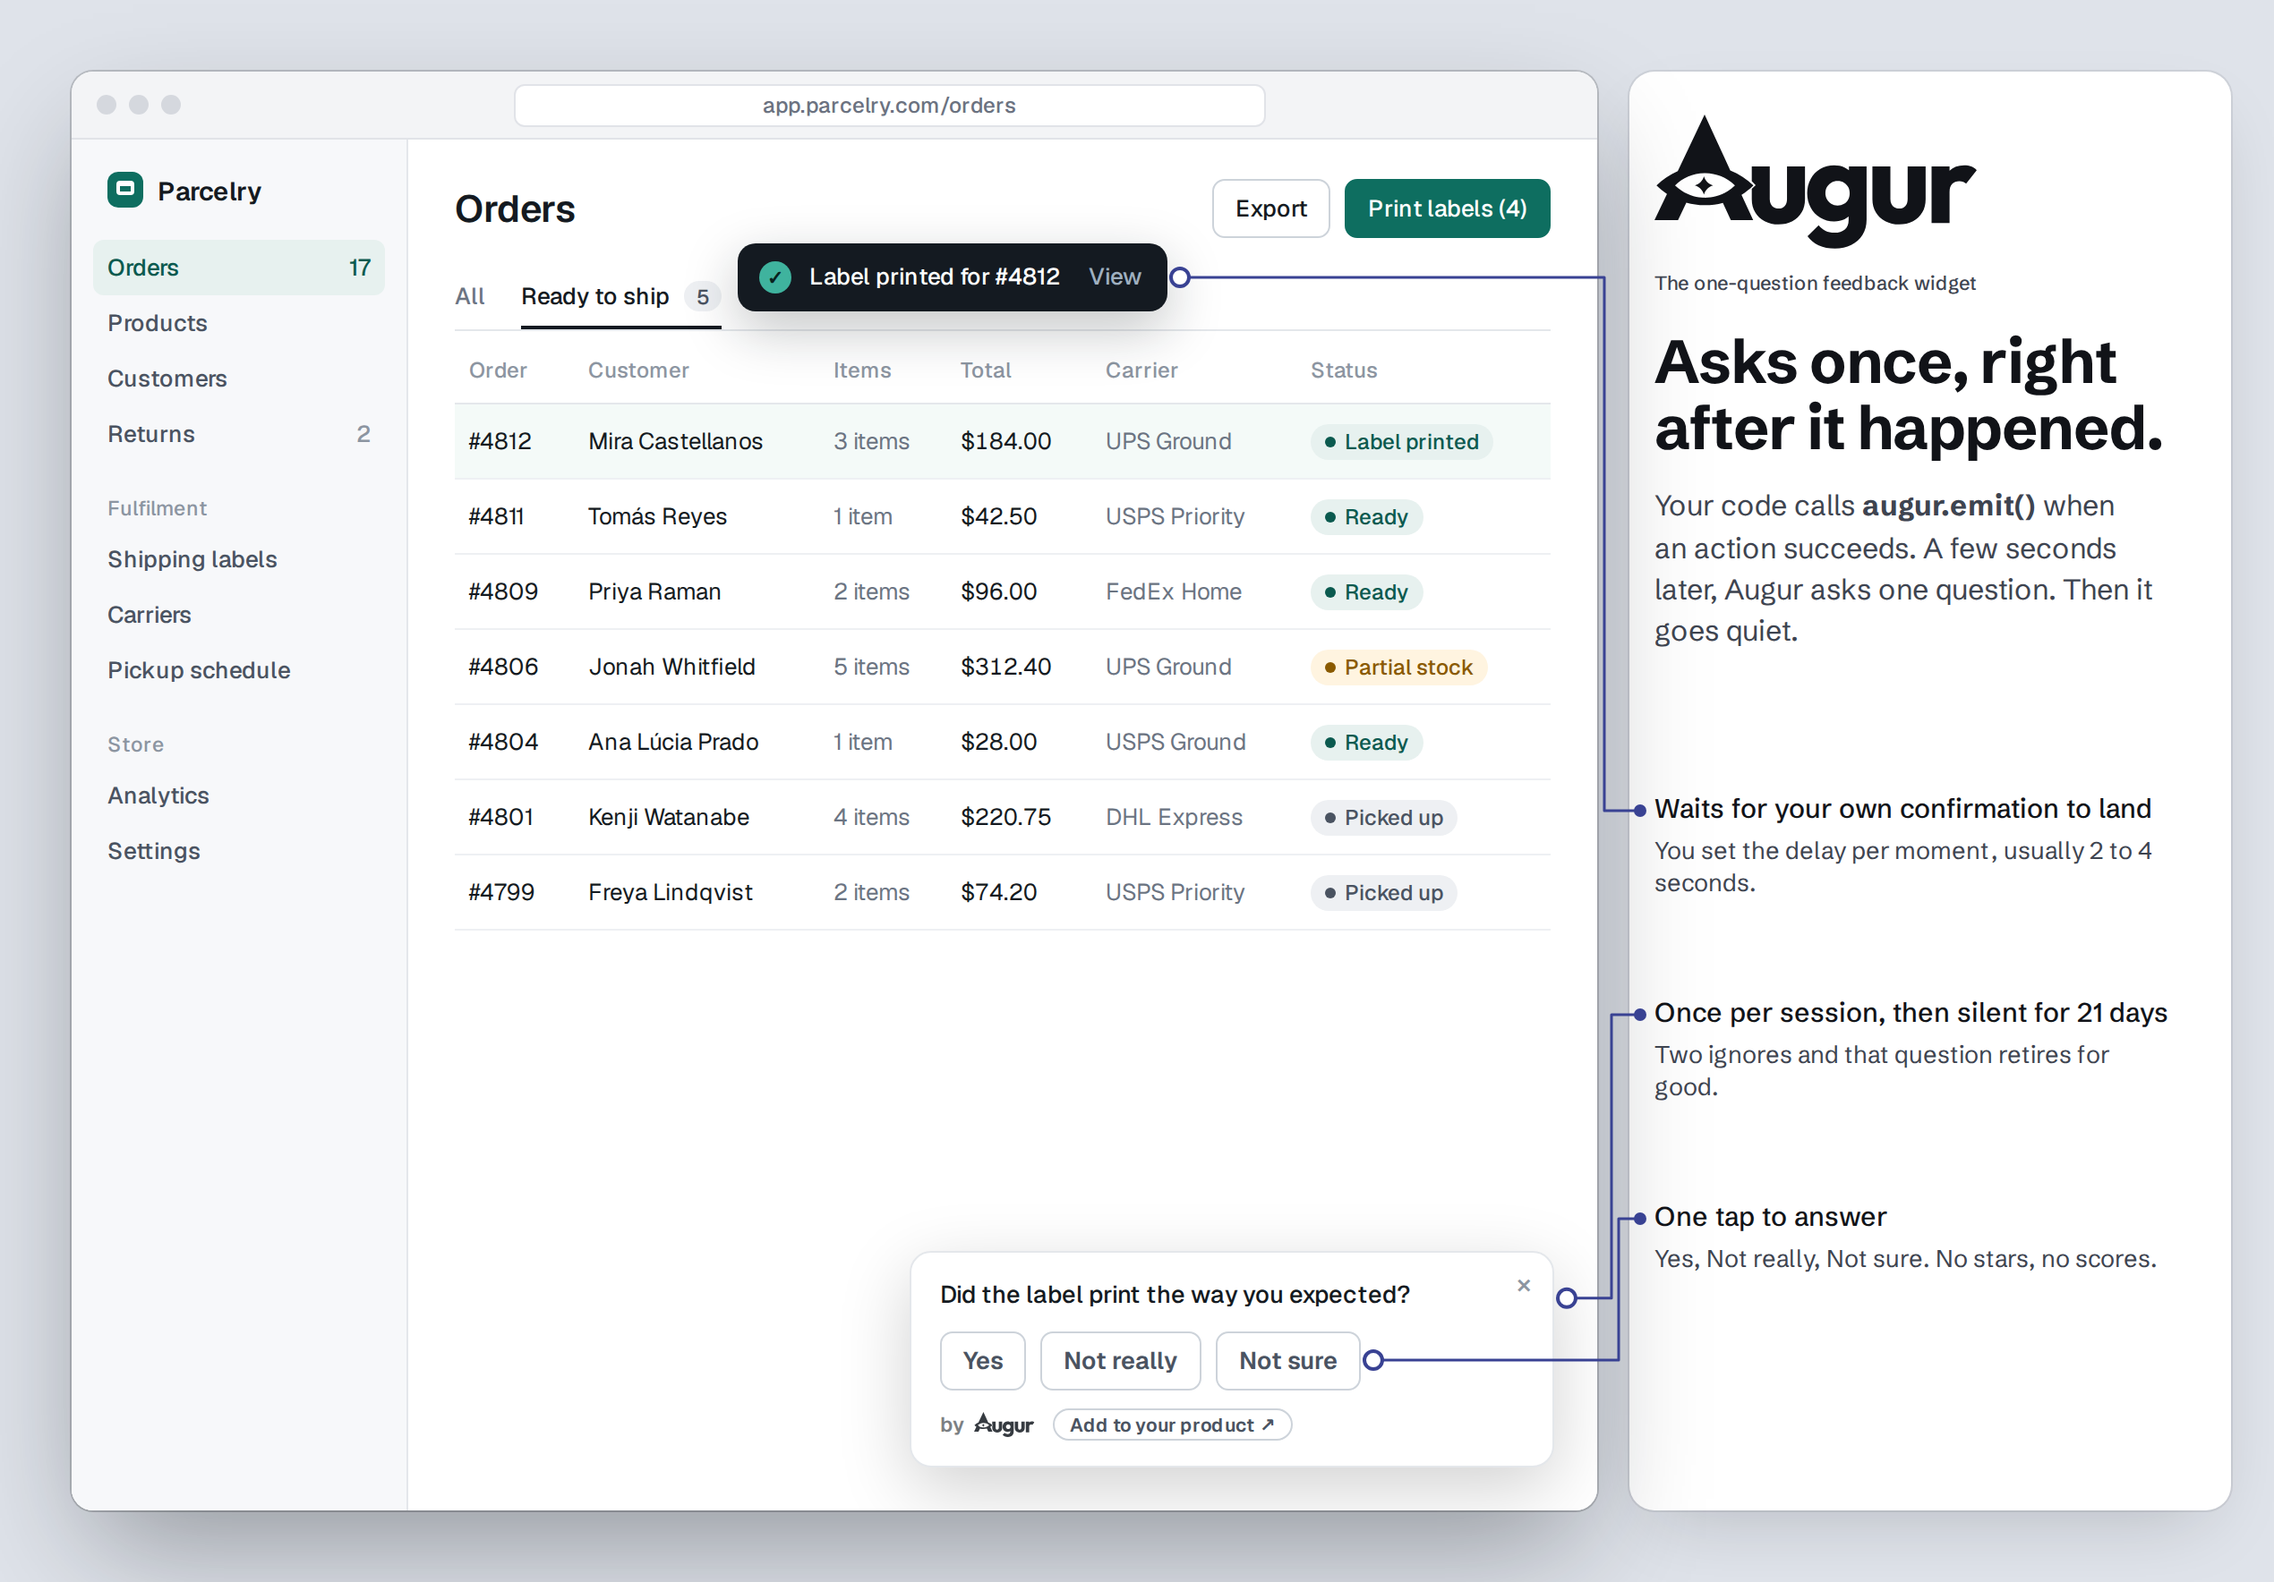
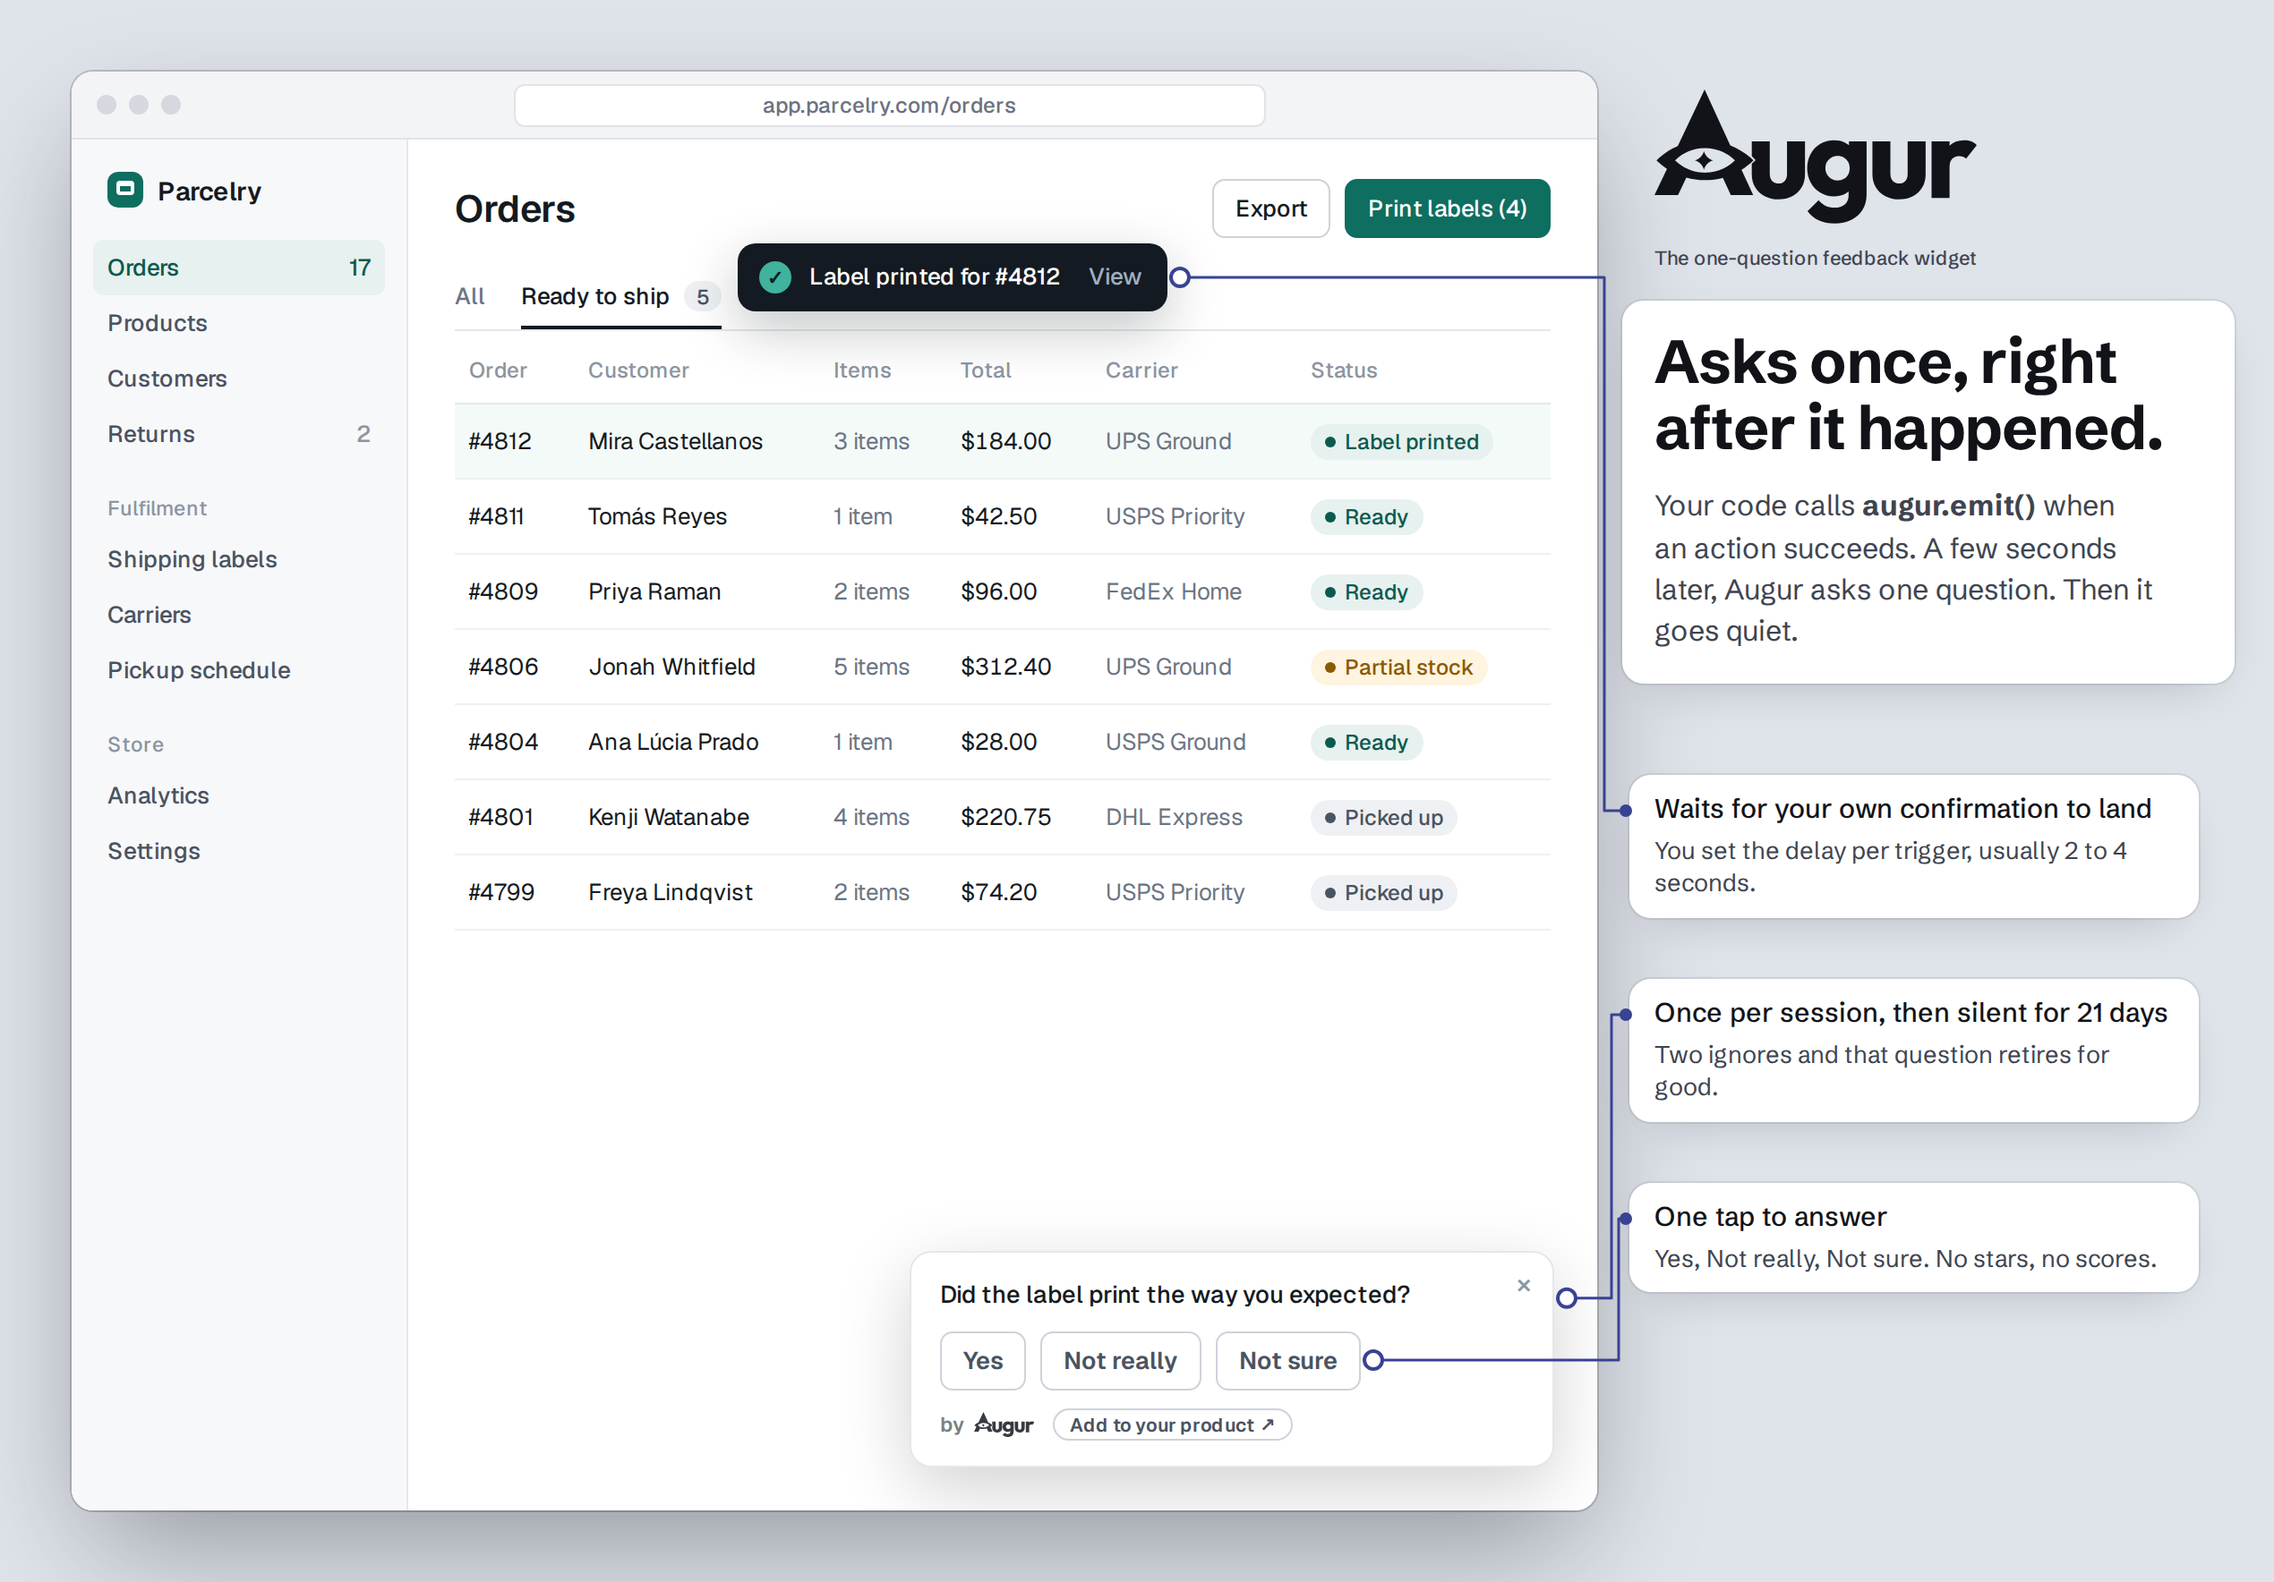
Gallery: a white card per text block instead of one full-height strip
Each annotation (the headline block and every note) gets its own white
card; negative margins keep the text where it was. The tall panel behind
the whole column is gone. Connector dots sit on each card's edge, level
with its first line. "Delay per moment" now reads "per trigger". Image 3
spacing nudged so no two cards touch. PNGs re-exported at 2x.

Claude-Session: https://claude.ai/code/session_0182RV45qnB2tjMoAwA4TVXF

Changed region(s): [[0.7154, 0.4044, 0.9953, 0.9644], [0.7154, 0.0311, 0.9953, 0.2178]]

diff --git a/.github/assets/gallery/gallery.html b/.github/assets/gallery/gallery.html
@@ -12,22 +12,23 @@
 * { box-sizing: border-box; }
 body { margin: 0; background: #C9CDD5; padding: 40px 0; display: grid; gap: 40px; justify-content: center; font-family: "Schibsted Grotesk", system-ui, sans-serif; }
 .frame { position: relative; width: 1270px; height: calc(760px + var(--top));  background: var(--mist); overflow: hidden; color: var(--ink); }
-/* annotation panel: a white card behind the side column so the notes read clearly */
-.frame::before { content: ""; position: absolute; left: 910px; top: 40px; right: 24px; bottom: 40px; background: #fff; border-radius: 14px;
-  box-shadow: 0 0 0 1px rgba(17,19,24,.08), 0 16px 40px -16px rgba(17,19,24,.22); }
 /* frame 3 carries more notes: lift them a little so the last one stays inside the panel */
-#frame-3 .note, #frame-3 .code, #frame-3 .inset { translate: 0 calc(var(--top) - 24px); }
+#frame-3 .note, #frame-3 .code, #frame-3 .inset { translate: 0 calc(var(--top) - 12px); }
 .frame .lines { position: absolute; inset: 0; pointer-events: none; z-index: 5; }
 
 .side { position: absolute; left: 924px; top: 60px; width: 306px; translate: 0 var(--top); }
+/* annotation cards: a white card around each text block; negative margins keep the text in place */
+.side, .note { background: #fff; border-radius: 12px; box-shadow: 0 0 0 1px rgba(17,19,24,.08), 0 10px 28px -14px rgba(17,19,24,.25); }
 .side h2 { font-size: 34px; line-height: 1.08; letter-spacing: -0.02em; font-weight: 700; margin: 0 0 14px; text-wrap: balance; }
 .side .sub { font-size: 16px; line-height: 1.45; color: var(--ink-2); margin: 0; text-wrap: pretty; }
-.brand { position: absolute; left: 924px; top: 64px; width: 180px; display: flex; flex-direction: column; gap: 4px; color: var(--ink); }
+.brand { position: absolute; left: 924px; top: 50px; width: 180px; display: flex; flex-direction: column; gap: 4px; color: var(--ink); }
 .brand .wm { width: 100%; height: auto; display: block; }
 .brand .by { display: block; white-space: nowrap; line-height: 1.1; font-weight: 500; }
 .brand .by { color: var(--ink-2); }
 
 .note { position: absolute; left: 924px; width: 290px; translate: 0 var(--top); font-size: 15px; line-height: 1.38; font-weight: 500; }
+.side { padding: 16px 18px 18px; margin: -16px -18px; width: 342px; }
+.note { padding: 9px 14px 10px; margin: -9px -14px; width: 318px; }
 .note small { display: block; font-size: 13.5px; color: var(--ink-2); font-weight: 400; margin-top: 3px; }
 .note .n { display: inline-grid; place-items: center; width: 22px; height: 22px; border-radius: 50%; background: var(--pin); color: #fff; font-size: 12px; font-weight: 700; margin-right: 8px; vertical-align: 1px; }
 
@@ -201,7 +202,7 @@ body { margin: 0; background: #C9CDD5; padding: 40px 0; display: grid; gap: 40px
 
   <div class="side"><h2>Asks once, right after it happened.</h2>
     <p class="sub">Your code calls <b>augur.emit()</b> when an action succeeds. A few seconds later, Augur asks one question. Then it goes quiet.</p></div>
-  <div class="note" style="top:318px" data-to="#t1-toast" data-at="right">Waits for your own confirmation to land<small>You set the delay per moment, usually 2 to 4 seconds.</small></div>
+  <div class="note" style="top:318px" data-to="#t1-toast" data-at="right">Waits for your own confirmation to land<small>You set the delay per trigger, usually 2 to 4 seconds.</small></div>
   <div class="note" style="top:432px" data-to="#t1-augur" data-at="right" data-y=".22">Once per session, then silent for 21 days<small>Two ignores and that question retires for good.</small></div>
   <div class="note" style="top:546px" data-to="#t1-last" data-at="right">One tap to answer<small>Yes, Not really, Not sure. No stars, no scores.</small></div>
   <div class="brand"><svg class="wm" width="57.68" height="24" viewBox="0 0 304.89 126.88" fill="currentColor" role="img" aria-label="Augur"><path d="m125.38,79.96c0,2.8-.71,5-2.15,6.62-1.43,1.62-3.4,2.43-5.91,2.43-1.69,0-3.16-.37-4.41-1.1-1.25-.74-2.21-1.79-2.87-3.15-.66-1.36-.99-2.96-.99-4.8v-30.8h-17.01v13.96l3.66,3.71-3.66,3.51v9.84c0,4.63,1.07,8.74,3.21,12.31,2.13,3.57,5.13,6.38,8.99,8.44,3.87,2.06,8.23,3.09,13.08,3.09s9.39-1.01,13.14-3.03c3.76-2.02,6.68-4.82,8.78-8.39,2.1-3.57,3.15-7.71,3.15-12.42v-31.02h-17.01v30.8Z"/><path d="m184,52.72c-1.23-1.03-2.61-1.9-4.14-2.62-2.9-1.37-6.2-2.05-9.88-2.05-4.85,0-9.21,1.16-13.08,3.48-3.86,2.32-6.9,5.46-9.11,9.44-2.2,3.97-3.31,8.5-3.31,13.58s1.11,9.42,3.31,13.47c2.21,4.04,5.23,7.25,9.06,9.6,3.82,2.36,8.2,3.53,13.13,3.53,3.68,0,6.98-.69,9.88-2.1,1.4-.67,2.67-1.46,3.81-2.38v3.27c0,3.83-1.19,6.77-3.58,8.83-2.4,2.06-5.69,3.09-9.88,3.09-3.24,0-6.06-.59-8.45-1.76-2.39-1.18-4.55-2.91-6.46-5.19l-10.49,10.37c2.58,3.68,6.09,6.53,10.55,8.56,4.45,2.02,9.58,3.04,15.4,3.04s10.87-1.13,15.4-3.37c4.52-2.25,8.07-5.43,10.65-9.55s3.86-8.94,3.86-14.46v-50.34h-16.67v3.56Zm-.71,27.73c-.92,1.73-2.25,3.11-3.98,4.14-1.73,1.04-3.77,1.55-6.12,1.55s-4.27-.51-5.97-1.55c-1.69-1.03-3.03-2.44-4.03-4.25-.99-1.8-1.49-3.73-1.49-5.79s.48-4.09,1.44-5.85c.96-1.77,2.32-3.17,4.08-4.2,1.77-1.03,3.79-1.54,6.08-1.54s4.37.51,6.07,1.54c1.69,1.03,3,2.43,3.92,4.2.92,1.76,1.38,3.68,1.38,5.74,0,2.28-.46,4.28-1.38,6.01Z"/><path d="m239.53,79.96c0,2.8-.71,5-2.15,6.62-1.43,1.62-3.4,2.43-5.91,2.43-1.69,0-3.16-.37-4.41-1.1-1.25-.74-2.21-1.79-2.87-3.15-.66-1.36-1-2.96-1-4.8v-30.8h-17v31.02c0,4.63,1.07,8.74,3.2,12.31,2.14,3.57,5.14,6.38,9,8.44,3.87,2.06,8.23,3.09,13.08,3.09s9.39-1.01,13.14-3.03,6.68-4.82,8.78-8.39,3.14-7.71,3.14-12.42v-31.02h-17v30.8Z"/><path d="m299.75,49.21c-1.95-.77-4.21-1.16-6.78-1.16-5.82,0-10.4,1.73-13.75,5.19l-.05.05v-4.13h-17.01v53.65h17.01v-29.37c0-3.46.82-6.05,2.48-7.78,1.66-1.73,3.92-2.59,6.79-2.59,1.4,0,2.65.22,3.75.66,1.11.44,1.99,1.03,2.65,1.77l10.05-12.81c-1.47-1.55-3.19-2.71-5.14-3.48Z"/><path d="m93.61,67.09c-6.22-6.12-13.65-11-21.91-14.25l-13.33-29L47.41,0l-10.74,22.65-14.66,30.93c-7.54,3.23-14.35,7.84-20.11,13.51,3.03,2.98,6.35,5.67,9.91,8.01L0,100h22.26l7.85-16.55c5.61,1.57,11.53,2.41,17.64,2.41s11.55-.77,16.95-2.22l7.52,16.36h21.15l-11.04-24.02c4.08-2.55,7.86-5.53,11.27-8.89Zm-24.48,5.49h0c-3.34,2.08-7,3.69-10.89,4.74-3.34.9-6.85,1.37-10.48,1.37s-7.44-.52-10.9-1.49c-4.07-1.13-7.87-2.89-11.31-5.16-2.2-1.45-4.25-3.11-6.12-4.95,3.56-3.5,7.77-6.35,12.43-8.35,4.7-2.02,9.87-3.17,15.3-3.25.21,0,.41,0,.61,0,.15,0,.3,0,.45,0,5.06.05,9.9,1.04,14.36,2.79,5.1,2.01,9.7,5.03,13.54,8.81-2.11,2.07-4.45,3.92-6.97,5.49Z"/><path d="m46.8,58.42c-1.14,4.23-4.44,7.53-8.67,8.67,4.23,1.14,7.53,4.44,8.67,8.67,1.14-4.23,4.44-7.53,8.67-8.67-4.23-1.14-7.53-4.44-8.67-8.67Z"/></svg><span class="by">The one-question feedback widget</span></div>
@@ -277,7 +278,7 @@ body { margin: 0; background: #C9CDD5; padding: 40px 0; display: grid; gap: 40px
     </div>
   </div>
 
-  <div class="side" style="top:52px"><h2>Keep your own button.</h2>
+  <div class="side" style="top:46px"><h2>Keep your own button.</h2>
     <p class="sub">Turn off Augur's built-in button and call <b>augur.open()</b> from yours. Any shape, any icon, anywhere in your UI.</p></div>
   <div class="note" style="top:250px" data-to="#t3-fab" data-at="right"><span class="n">1</span>Your button, your design</div>
   <div class="code" style="top:290px"><span class="c">// in your Augur config</span>
@@ -286,8 +287,8 @@ persistentButton: <span class="k">false</span>,
 <span class="c">// on your own button</span>
 &lt;IdeasButton
   onClick={() =&gt; <span class="f">augur.open</span>()} /&gt;</div>
-  <div class="note" style="top:434px"><span class="n">2</span>It opens Augur's panel</div>
-  <div class="inset" style="top:466px"><div class="scaler">
+  <div class="note" style="top:442px"><span class="n">2</span>It opens Augur's panel</div>
+  <div class="inset" style="top:482px"><div class="scaler">
     <div class="augur text wf-vars" id="t3-augur">
       <span class="x">×</span>
       <p class="q">What would make this better?</p>
@@ -319,7 +320,8 @@ function drawLines() {
     [...f.querySelectorAll(".note[data-to]")].forEach((n, i) => {
       const t = f.querySelector(n.dataset.to); if (!t) return;
       const nr = n.getBoundingClientRect(), tr = t.getBoundingClientRect();
-      const x1 = nr.left - fr.left - 10, y1 = nr.top - fr.top + 11;
+      const pad = parseFloat(getComputedStyle(n).paddingTop) || 0;
+      const x1 = nr.left - fr.left - 4, y1 = nr.top - fr.top + pad + 11;
       const x2 = tr.right - fr.left + 7, y2 = tr.top - fr.top + tr.height * (+n.dataset.y || 0.5);
       const gx = 896 + i * 4;   // routes in the gap between window and panel
       mk("path", { d: `M${x1},${y1} H${gx} V${y2} H${x2}`, fill: "none", stroke: "#394293", "stroke-width": 1.5, "stroke-linejoin": "round" });
